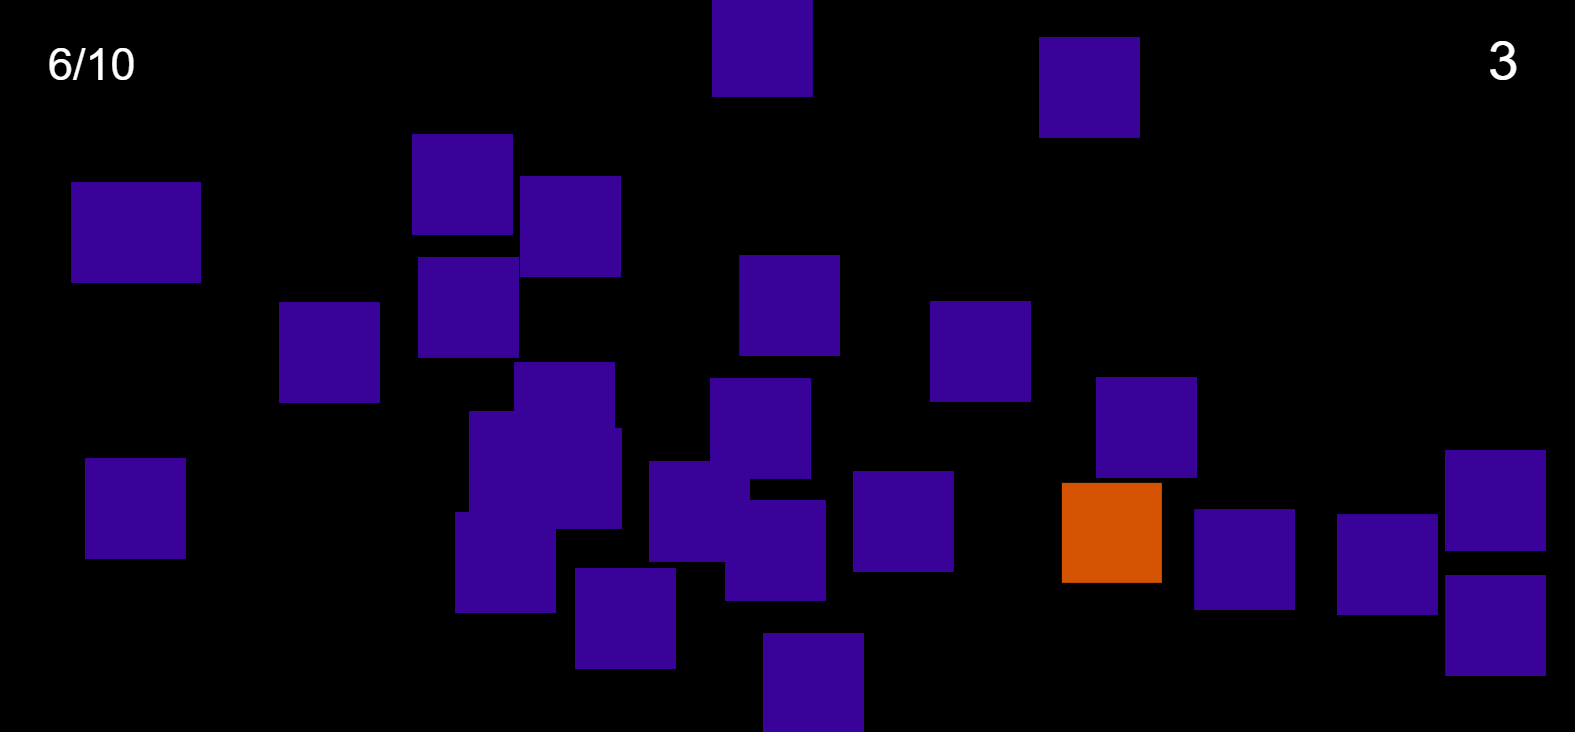
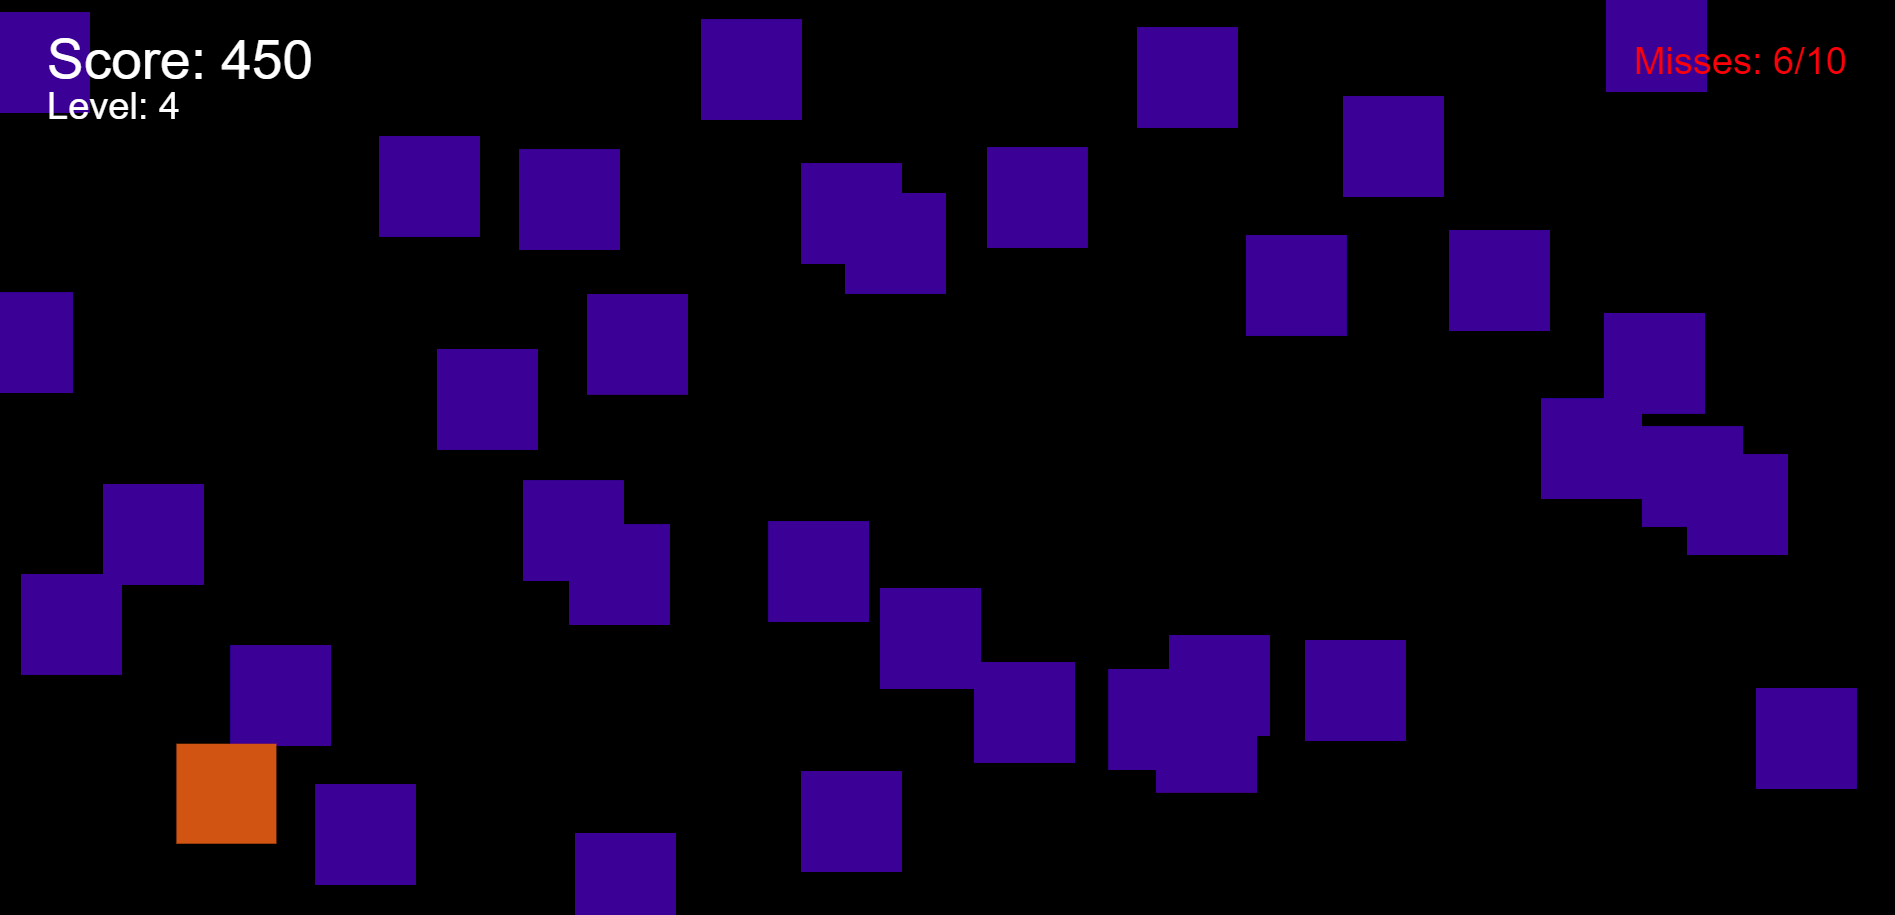
Whackomole update 1
i think this one is just the image but we'll see ig

diff --git a/atlib/Whack-o-mole Thing/sketch.js b/atlib/Whack-o-mole Thing/sketch.js
@@ -1,5 +1,7 @@
+var miss = 0;
 var posx;
 var posy;
+var points = 0;
 var backFill;
 var xposs = [];
 var yposs = [];
@@ -7,9 +9,9 @@ var step;
 var level = {
     displaynum: 1,
     lvlnum: 0,
-    time: 150
+    time: 85
 };
-var times = [150, 110, 85, 70, 55, 40, 35, 30, 25, 20, 19, 18, 17, 16, 15, 14, 13, 12, 11, 10, 9, 8, 7, 6, 5, 4, 3, 2, 1];
+var times = [85, 70, 65, 55, 45, 40, 35, 30, 25, 22, 19, 18, 17, 16, 15, 14, 13, 12, 11, 10, 9, 8, 7, 6, 5, 4, 3, 2, 1];
 var score = 0;
 //TODO: Dim each square slowly like every click
 
@@ -24,11 +26,13 @@ function draw() {
 	// Background
     background(0); 
 	image(backFill, 0, 0);
-	
+    
+    points = (level.displaynum*100) + (score*10);
+
     if (level.lvlnum >= times.length) {
         keyPressed();
     }
-    
+
     // Rectangle
 	if (level.time == times[level.lvlnum]) {
 		posx = random(-25, width-75);
@@ -57,12 +61,40 @@ function draw() {
     
     // Onscreen Text
     fill(255);
-    
-    textSize(45);
-    text(score+"/10", 50, 80);
-    
-    textSize(55);
-    text(level.displaynum, width-90, 80);
+    textAlign(LEFT);
+    textSize(55)
+    text("Score: " + points, 50, 80)
+
+    textSize(38)
+    text("Level: " + level.displaynum, 50, 130);
+
+    fill(255, 0, 0);
+    textAlign(RIGHT);
+    text("Misses: " + miss + "/10", width - 50, 75)
+
+    // Game over
+    if (miss >= 10) {
+        background(0);
+        image(backFill, 0, 0);
+        for (let step = 0; step < xposs.length; step++) {		
+            backFill.noStroke();
+            backFill.fill(57, 2, 153);
+            backFill.rect(xposs[step], yposs[step], 100, 100);
+        }
+        fill(255, 0, 0);
+        textAlign(CENTER, CENTER);
+        textStyle(BOLD);
+        textSize(125);
+        text("Game Over", width/2, (height/2));
+
+        textStyle(NORMAL);
+        fill(255);
+        textSize(70);
+        text("Score: " + points, width/2, (height/2) + 85)
+
+        textSize(25);
+        text("Press any key to reset", width/2, (height/2) + 140)
+    }
 }
 
 // On click
@@ -72,7 +104,11 @@ function mousePressed() {
 		yposs.push(posy);
 		level.time = times[level.lvlnum];
         score++
-	}
+	} else {
+        miss++;
+        fill(255, 0, 0);
+        rect(0, 0, width, height);
+    }
 }
 
 // On key press
@@ -85,5 +121,7 @@ function keyPressed() {
         time: 150
     };
     score = 0;
+    miss = 0;
+    points = 0;
 	backFill.clear();
 }
